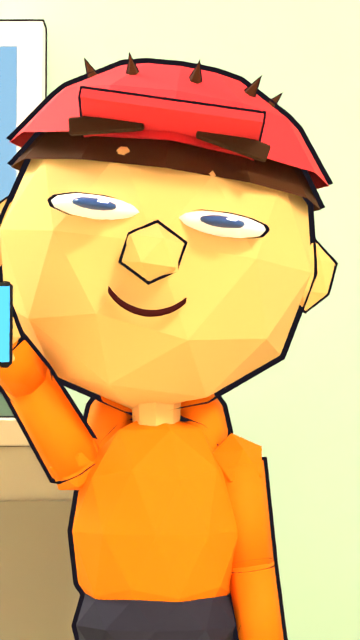
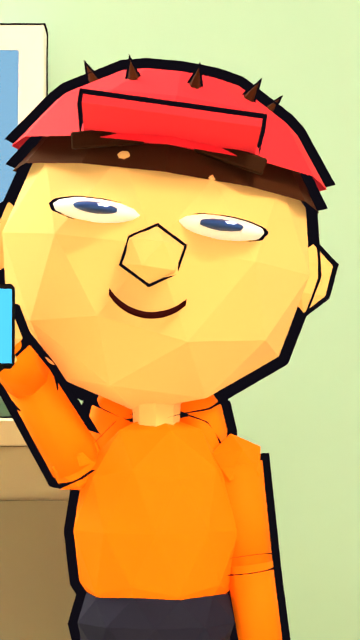
Moteur : visages toujours visibles, rendu cartoon plus franc, nouveaux contrôles
Corrige les défauts constatés sur le prototype d'un utilisateur :
- personnages qui regardent quelqu'un : orientation limitée à ±65° vers la caméra
- fin de déplacement : le personnage se retourne vers la caméra
- tête limitée en tangage/roulis/lacet (plus de tête piquée vers le sol)
- sourcils qui suivent la surface de la tête au lieu de flotter
- aplats semi-émissifs, contours deux fois plus épais, exposition et contraste ajustés
- contrôle de scène face_away (visage invisible depuis la caméra)
- avertissement de compilation pour deux plans consécutifs au même cadrage/sujet

Claude-Session: https://claude.ai/code/session_01RARgqV5EneUz22KdCuTWsc

diff --git a/blender/engine/animation.py b/blender/engine/animation.py
@@ -143,7 +143,12 @@ class CharAnim:
     def j(self, n):
         return self.c.joints[n]
 
+    HEAD_LIMITS = {0: (-20.0, 16.0), 1: (-25.0, 25.0), 2: (-75.0, 75.0)}   # au-delà, on ne voit plus le visage
+
     def rot(self, joint, axis, f, deg, interp='BEZIER'):
+        if joint == "head":
+            lo, hi = self.HEAD_LIMITS[axis]
+            deg = max(lo, min(hi, deg))
         self.a.key(self.j(joint), 'rotation_euler', axis, f, D(deg), interp)
 
     def pose(self, name_or_dict, f, interp='BEZIER', blend=1.0):
@@ -250,8 +255,12 @@ class CharAnim:
         fa, fb = f, f + ramp
         for side, up, inner, s in (("L", bl, il, 1), ("R", br, ir, -1)):
             eye, pupil, brow = self.c.face[f"eye_{side}"], self.c.face[f"pupil_{side}"], self.c.face[f"brow_{side}"]
+            # le sourcil glisse SUR la surface de la tête (sinon il flotte devant le front quand il monte)
+            bz = r * 0.50 + max(-0.08, min(0.14, lerp(0, up))) * r * 1.6
+            bx = brow.location.x
+            by = -(math.sqrt(max(r * r - bz * bz - bx * bx * 0.6, 0.0)) * 0.97 + r * 0.06)
             for obj, path, idx, val in ((eye, 'scale', 2, lerp(1, eye_sq)), (pupil, 'scale', 0, lerp(1, pup)), (pupil, 'scale', 2, lerp(1, pup)),
-                                        (brow, 'location', 2, r * 0.50 + lerp(0, up) * r * 2.2), (brow, 'rotation_euler', 1, s * D(lerp(0, inner)))):
+                                        (brow, 'location', 2, bz), (brow, 'location', 1, by), (brow, 'rotation_euler', 1, s * D(lerp(0, inner)))):
                 self.a.key(obj, path, idx, fa, self.a.value_at(obj, path, idx, fa))
                 self.a.key(obj, path, idx, fb, val)
             for part, on in ((f"blush_{side}", blush), (f"tear_{side}", tears)):
@@ -558,6 +567,11 @@ class CharAnim:
             bob = abs(math.cos(ph)) * (0.05 if run else 0.025) * self.c.H
             self.a.key(self.j("hips"), 'location', 2, f, self.c.hip_z - (0.03 * self.c.H if run else 0) + bob)
         self.pose("rest", f_end + 6)
+        # arrivé à destination, il se retourne vers la caméra (« triche ») : on ne finit pas un déplacement de dos
+        if dist > 0.3 and abs(math.atan2(p1.x - p0.x, -(p1.y - p0.y))) > D(65):
+            heading = math.atan2(p1.x - p0.x, -(p1.y - p0.y))
+            self.a.key(root, 'rotation_euler', 2, f_end + 2, self.a.value_at(root, 'rotation_euler', 2, f_end + 2))
+            self.a.key(root, 'rotation_euler', 2, f_end + 9, max(-D(55), min(D(55), heading)))
         return f_end
 
     def act_walk_to(self, f0, dur, k, target, world):

diff --git a/blender/engine/characters.py b/blender/engine/characters.py
@@ -55,7 +55,7 @@ class Character:
         self.neck_len = 0.05 * H
         self.head_cz = self.hip_z + self.torso_h + self.neck_len + self.head_r * 0.92
         self.height = self.head_cz + self.head_r * 1.05
-        self.ink = 0.010 * H
+        self.ink = 0.020 * H   # contours épais : lisibilité à taille téléphone
         self.joints = {}
         self.meshes = []
         self.face = {}
@@ -67,13 +67,14 @@ class Character:
         d = self.d
         o = d["outfit"]
         top_col = o["top"]["color"]
+        flat = 0.35   # part d'auto-illumination : aplats de couleur franche, peu dépendants de l'éclairage
         self.m = {
-            "skin": core.toon_mat(f"{self.id}_skin", d["skin"], rough=0.8, emission=0.04),
-            "top": core.toon_mat(f"{self.id}_top", top_col),
-            "accent": core.toon_mat(f"{self.id}_accent", o["top"].get("accent", "#E63946")),
-            "bottom": core.toon_mat(f"{self.id}_bottom", o["bottom"]["color"]),
-            "shoes": core.toon_mat(f"{self.id}_shoes", o.get("shoes", "#1E1E1E"), rough=0.5),
-            "hair": core.toon_mat(f"{self.id}_hair", d["hair"].get("color", "#3B2416"), rough=0.9),
+            "skin": core.toon_mat(f"{self.id}_skin", d["skin"], rough=0.8, emission=flat),
+            "top": core.toon_mat(f"{self.id}_top", top_col, emission=flat),
+            "accent": core.toon_mat(f"{self.id}_accent", o["top"].get("accent", "#E63946"), emission=flat),
+            "bottom": core.toon_mat(f"{self.id}_bottom", o["bottom"]["color"], emission=flat * 0.8),
+            "shoes": core.toon_mat(f"{self.id}_shoes", o.get("shoes", "#1E1E1E"), rough=0.5, emission=flat * 0.6),
+            "hair": core.toon_mat(f"{self.id}_hair", d["hair"].get("color", "#3B2416"), rough=0.9, emission=flat * 0.6),
             "brow": core.toon_mat(f"{self.id}_brow", d["brows"].get("color", "#2A1B12")),
             "white": core.toon_mat("eye_white", "#FFFFFF", rough=0.4, emission=0.25),
             "iris": core.toon_mat(f"{self.id}_iris", d["eyes"].get("iris", "#2B2B2B"), rough=0.3),
@@ -85,7 +86,7 @@ class Character:
             "tear": core.emit_mat("tear", "#7FD3FF", 1.2),
             "gold": core.toon_mat("gold", "#F4C430", rough=0.3, metallic=0.6),
             "dark": core.toon_mat("lens_dark", "#111111", rough=0.2),
-            "chef": core.toon_mat("chef_white", "#F7F7F7", emission=0.1),
+            "chef": core.toon_mat("chef_white", "#F7F7F7", emission=0.3),
         }
 
     def _j(self, name, loc, parent):

diff --git a/blender/engine/checks.py b/blender/engine/checks.py
@@ -48,6 +48,12 @@ def run(sc, cam, chars, props_state, set_info, spec, sample_frames):
                 if hy < 0.36 and framing not in ("wide", "insert"):
                     out.append({"id": f"face_under_subtitles:{cid}", "severity": "minor", "status": "warn", "frame": f,
                                 "message": f"Visage du sujet bas dans l'image (y={hy:.2f}) : risque de recouvrement par les sous-titres."})
+            hm = ch.joints["head"].matrix_world
+            fwd = (hm.to_3x3() @ Vector((0, -1, 0))).normalized()
+            to_cam = (cam.matrix_world.translation - lm["head"]).normalized()
+            if fwd.dot(to_cam) < 0.15:
+                out.append({"id": f"face_away:{cid}", "severity": "major" if is_subject else "minor", "status": "fail" if is_subject else "warn", "frame": f,
+                            "message": f"Visage de {cid} invisible depuis la caméra (dos ou tête penchée, cos={fwd.dot(to_cam):.2f})."})
             x, y = lm["feet"].x, lm["feet"].y
             b = set_info["bounds"]
             if not (b[0] <= x <= b[1] and b[2] <= y <= b[3]) and in_frame:
@@ -95,7 +101,7 @@ def run(sc, cam, chars, props_state, set_info, spec, sample_frames):
             seen[c["id"]] = c
     res = list(seen.values())
     for c in res:
-        if c["severity"] == "major" and len(c["frames"]) < max(2, len(sample_frames) // 3) and c["id"].startswith(("subject_too_small", "head_cropped")):
+        if c["severity"] == "major" and len(c["frames"]) < max(2, len(sample_frames) // 3) and c["id"].startswith(("subject_too_small", "head_cropped", "face_away")):
             c["severity"], c["status"] = "minor", "warn"   # transitoire (ex : saut) : avertissement seulement
     return res
 

diff --git a/pipeline/studio/compile.py b/pipeline/studio/compile.py
@@ -168,6 +168,9 @@ def compile_episode(ep_dir, cfg):
         manifest_shots.append({"id": s["id"], "start_frame": f0, "end_frame": f1, "frames": N, "start_s": round(t0, 3), "end_s": round(t1, 3),
                                "spec_sha256": h, "spec_path": str(sp.relative_to(ep_dir)), "line_ids": s["line_ids"],
                                "transition_out": s.get("transition_out", "cut")})
+    for a, b in zip(shots, shots[1:]):
+        if a["camera"]["framing"] == b["camera"]["framing"] and a["camera"]["subject"] == b["camera"]["subject"] and a["set_id"] == b["set_id"]:
+            warnings.append(f"{a['id']} et {b['id']} : même cadrage sur le même sujet (plans quasi identiques) : varier la valeur de plan ou l'angle")
     for old in shots_dir.glob("*.json"):
         if old.stem not in {s["id"] for s in shots}:
             old.unlink()

diff --git a/blender/engine/core.py b/blender/engine/core.py
@@ -47,7 +47,11 @@ def setup_render(sc, profile, engine_pref='auto', threads=0):
     sc.render.film_transparent = False
     try:
         sc.view_settings.view_transform = 'Standard'   # couleurs cartoon franches (AgX désature)
-        sc.view_settings.look = 'None'
+        sc.view_settings.exposure = -0.45               # matériaux semi-émissifs : éviter l'image délavée
+        try:
+            sc.view_settings.look = 'Medium High Contrast'
+        except TypeError:
+            sc.view_settings.look = 'None'
     except Exception:
         pass
     if threads:

diff --git a/blender/engine/run_shot.py b/blender/engine/run_shot.py
@@ -97,6 +97,7 @@ class Shot:
             if c.get("facing_target") is not None:
                 tx, ty = c["facing_target"]
                 fr = math.atan2(tx - x, -(ty - y))
+                fr = max(-D(65), min(D(65), fr))   # règle de mise en scène : on « triche » vers la caméra
             else:
                 fr = D(c.get("facing_deg") or 0.0)
             ch.place(x, y, fr)

diff --git a/memory/recurring_issues.md b/memory/recurring_issues.md
@@ -1,3 +1,9 @@
 # Problèmes récurrents relevés par les critiques
 
 Une entrée par section `## `.
+
+## Prototype utilisateur (chef Basile) : personnages de dos, sourcils flottants, rendu terne
+tags: visage, dos, sourcils, couleurs, contours, mise-en-scene
+date: 2026-11-11
+
+Retour utilisateur sur un épisode réel. Corrigé dans le moteur : facing vers un personnage limité à ±65° (triche caméra), retour face caméra en fin de walk_to, tête limitée (tangage -20/+16°), sourcils glissant sur la surface de la tête, aplats semi-émissifs + contours 2x plus épais, exposition -0,45 + contraste. Nouveau contrôle face_away et avertissement de plans consécutifs identiques. Reste : décors pauvres (pas de texture/profondeur), acting du corps limité.
